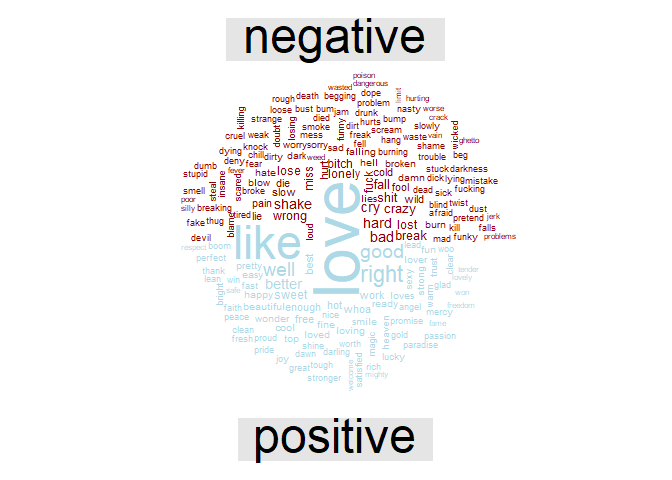
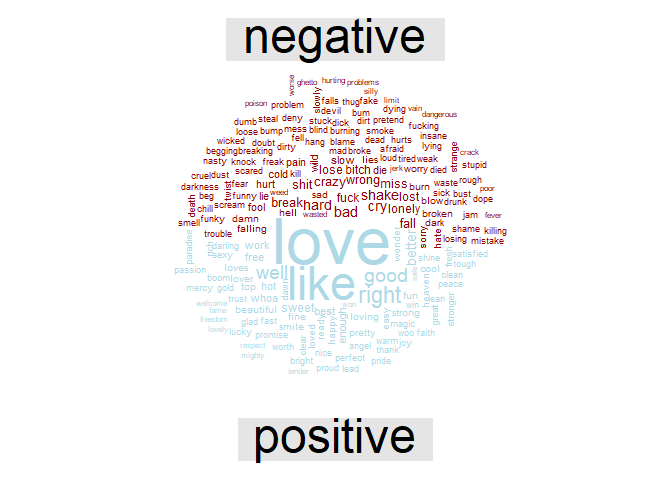
Update

Changed region(s): [[0.25, 0.1562, 0.7812, 0.8125]]

diff --git a/README.md b/README.md
@@ -5,12 +5,16 @@ John Rollman
 
 -   [Introduction](#introduction)
 -   [Packages](#packages)
--   [Import Data](#import-data)
--   [Run Sentiment Analysis](#run-sentiment-analysis)
--   [Analyze Initial Results](#analyze-initial-results)
+-   [Part 1](#part-1)
+    -   [Import Data](#import-data)
+    -   [Run Sentiment Analysis](#run-sentiment-analysis)
+    -   [Analyze Initial Results](#analyze-initial-results)
     -   [Part 1 Summary](#part-1-summary)
         -   [Conclusions](#conclusions)
         -   [The Big Picture](#the-big-picture)
+-   [Part 2](#part-2)
+    -   [NRC Lexicon Analysis](#nrc-lexicon-analysis)
+    -   [NRC Visualization](#nrc-visualization)
 
 # Introduction
 
@@ -29,9 +33,14 @@ For this analysis I have a couple goals I would like to work on.
 library(tidyverse)
 library(tidytext)
 library(textdata)
+library(wordcloud)
+library(reshape2)
+library(RColorBrewer)
 ```
 
-# Import Data
+# Part 1
+
+## Import Data
 
 Courtesy of [Derek Zhao](https://github.com/zhao1701)
 
@@ -45,7 +54,7 @@ spotSent <- spotDat %>%
   unnest_tokens(word, lyrics)
 ```
 
-# Run Sentiment Analysis
+## Run Sentiment Analysis
 
 ``` r
 #Calculate sentiment by song/artist
@@ -56,7 +65,7 @@ trial1 <- spotSent %>%
   mutate(method = "AFINN")
 ```
 
-# Analyze Initial Results
+## Analyze Initial Results
 
 ``` r
 #Summarize sentiment for each year
@@ -161,12 +170,12 @@ htest$coefficients
 ### Conclusions
 
 For the majority of the last 50+ years, the lyrical sentiment of the
-Billboard Top 100 has been generally ‘positive’. In 1998, lyrical
+Billboard Hot 100 has been generally ‘positive’. In 1998, lyrical
 sentiment dipped into the negatives for a year, followed by a resurgence
 of positive sentiment. In 2000, there was a drastic shift back to
 positive only to slowly dwindle back down. Overall, the 21st century has
 seen song lyrics become overall less positive. It is important to
-remember that this is only the Billboard’s Top 100 and the sentiment is
+remember that this is only the Billboard’s Hot 100 and the sentiment is
 simply a reflection of the lyrics not the music itself. Have you ever
 listened to a song that you considered a “banger” only to listen to the
 lyrics and realize how dark or sad the song may be. This is what I would
@@ -183,3 +192,77 @@ others. Thus, despite songs being upbeat or not, does the inherent
 lyrical sentiment affect us in a physiological way. Does listening to a
 song we think evokes upbeat positivity but lyrically conveys negativity,
 act as a detriment to our mental health.
+
+``` r
+spotSent_c <- spotSent %>%
+  inner_join(get_sentiments("bing"), by = 'word') %>% 
+  count(word, sentiment, sort = TRUE)
+
+spotSent_c %>% 
+  acast(word ~ sentiment, value.var = "n", fill = 0) %>%
+  comparison.cloud(colors = c("darkred", "lightblue"),
+                   max.words = 200)
+```
+
+![](Spotify_Lyric_Sentiment_Analysis_files/figure-gfm/unnamed-chunk-5-1.png)<!-- -->
+
+# Part 2
+
+## NRC Lexicon Analysis
+
+``` r
+spotNRC <- spotSent %>%
+  inner_join(get_sentiments("nrc")) %>% 
+  filter(!sentiment %in% c("positive","negative")) %>%
+  mutate(method = "NRC") %>%
+  count(method,index = song, artist_base, sentiment) %>%
+  pivot_wider(names_from = sentiment,
+              values_from = n,
+              values_fill = 0)
+```
+
+    ## Joining, by = "word"
+
+``` r
+#Summarize sentiment for each year as %
+spotDat_agg_p <- spotDat %>%
+  inner_join(spotNRC, by = c('song'='index','artist_base'='artist_base')) %>%
+  group_by(year) %>%
+  summarise_at(c("anger", "anticipation", 'disgust','fear','joy','sadness','surprise','trust'), sum, na.rm = TRUE) %>%
+  mutate(tot_words = (anger + anticipation + disgust + fear + joy + sadness + surprise + trust),
+         p_anger = anger/tot_words*100,
+         p_anticipation = anticipation/tot_words*100,
+         p_disgust = disgust/tot_words*100,
+         p_fear = fear/tot_words*100,
+         p_joy = joy/tot_words*100,
+         p_sadness = sadness/tot_words*100,
+         p_surprise = surprise/tot_words*100,
+         p_trust = trust/tot_words*100, .keep = 'unused') %>%
+  select(!tot_words) %>%
+  pivot_longer(!year, names_to = 'Sent_Type', values_to = 'Pct')
+  
+#Summarize sentiment for each year raw counts
+spotDat_agg <- spotDat %>%
+  inner_join(spotNRC, by = c('song'='index','artist_base'='artist_base')) %>%
+  group_by(year) %>%
+  summarise_at(c("anger", "anticipation", 'disgust','fear','joy','sadness','surprise','trust'), sum, na.rm = TRUE) %>%
+  pivot_longer(!year, names_to = 'Sent_Type', values_to = 'Count')
+```
+
+## NRC Visualization
+
+``` r
+ggplot(spotDat_agg, aes(x=year, y=Count, fill = factor(Sent_Type))) +
+  geom_area(position="fill") +
+  scale_fill_brewer(palette="Dark2")
+```
+
+![](Spotify_Lyric_Sentiment_Analysis_files/figure-gfm/unnamed-chunk-7-1.png)<!-- -->
+
+``` r
+ggplot(spotDat_agg_p, aes(x=year, y=Pct, color = factor(Sent_Type))) +
+  geom_line(size = 1, alpha = .7) +
+  scale_color_brewer(palette="Dark2")
+```
+
+![](Spotify_Lyric_Sentiment_Analysis_files/figure-gfm/unnamed-chunk-7-2.png)<!-- -->
